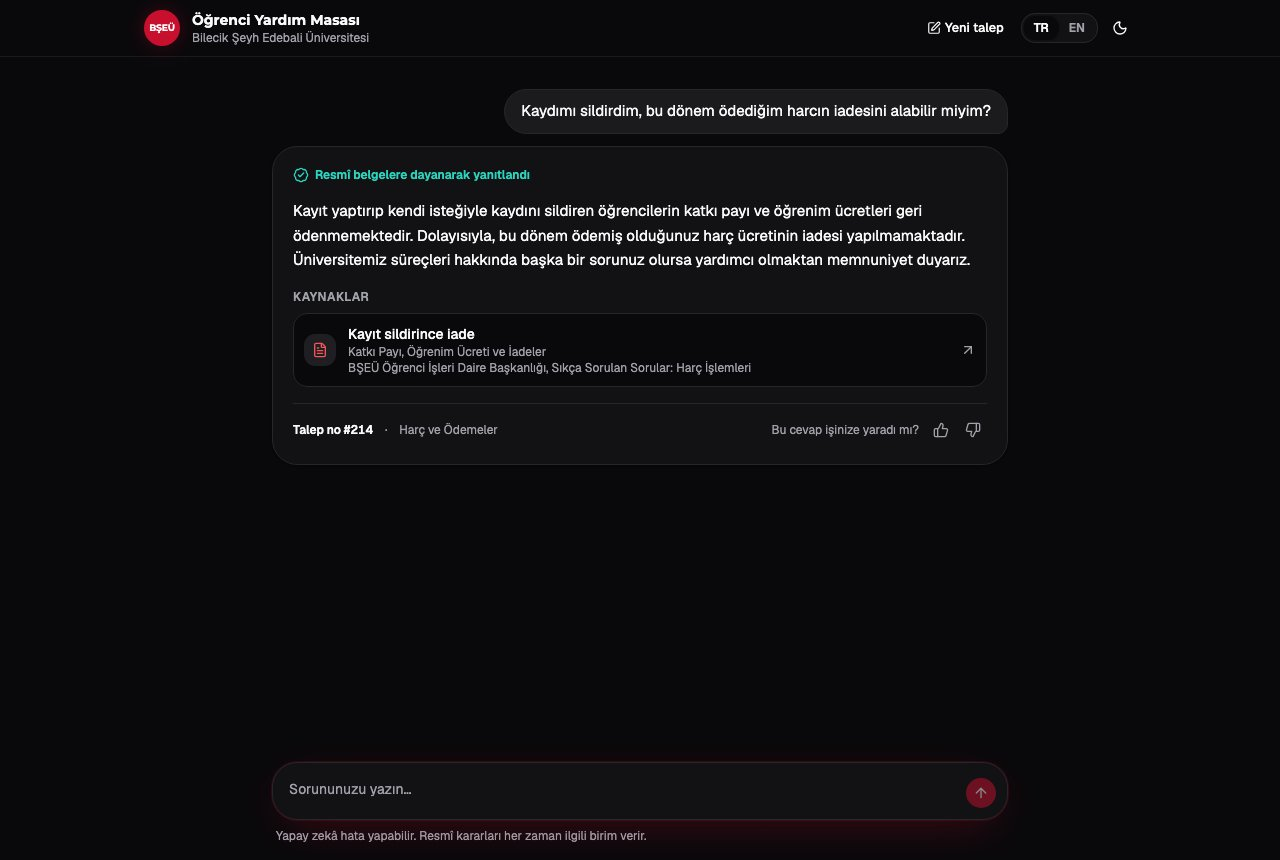
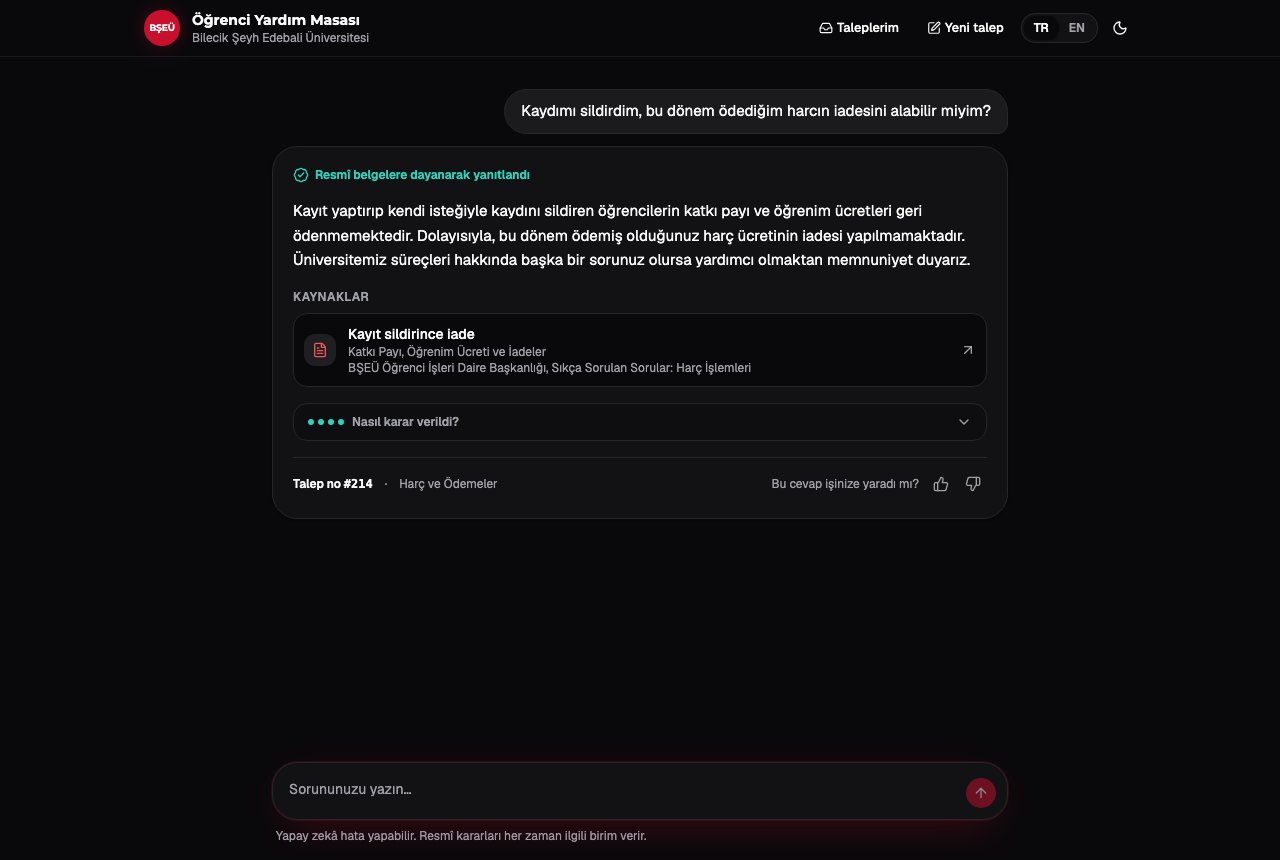
README and status: new features (Taleplerim, feedback, decision trace, Insights), new screenshots, roadmap 11/12/14, 145 tests, 9 decision records

diff --git a/README.md b/README.md
@@ -20,7 +20,7 @@
 | Kategoriler, birimler, escalation kuralları | [Kategoriler ve birimler](#kategoriler-ve-birimler-7-kategori) · tam kural kitabı: [`docs/labels.md`](docs/labels.md) |
 | Veri seti | [Veri seti](#veri-seti) · [`data/tickets/`](data/tickets/) |
 | Değerlendirme yöntemi ve sonuçlar | [Sonuçlar özeti](#sonuçlar-özeti) · ayrıntılar aşağıda · ham sonuçlar: [`eval/`](eval/) |
-| Yeni (23.10.2026): gerçekçi talepler ve "ön bilgi" | [Phase 8 sonuçları](#gerçekçi-talepler-phase-8) · [Ön bilgi](#ön-bilgi-yönlendirilen-taleplerde-yardım) |
+| Yeni (23.10.2026): gerçekçi talepler, "ön bilgi", Taleplerim, karar izi, istatistikler | [Phase 8 sonuçları](#gerçekçi-talepler-phase-8) · [Ön bilgi](#ön-bilgi-yönlendirilen-taleplerde-yardım) · [Yeni özellikler](#öğrenci-ve-personel-için-yeni-özellikler-23102026) |
 | Kapsam ve sınırlar | [Kapsam ve sınırlar](#kapsam-ve-sınırlar-v1) |
 | Önemli kararlar ve nedenleri | [`docs/decisions/`](docs/decisions/) (model seçimi, karar kuralları, veritabanı, barındırma, güvenlik) |
 | Her değişiklik ve nedeni | [Sürümler (Releases)](https://github.com/AhmedElghazzawy/ai-ticket-assistant/releases) · ayrıntılı çalışma notları: [`docs/changelog.md`](docs/changelog.md) (İngilizce) |
@@ -32,6 +32,10 @@ Görüntülerdeki cevaplar modelin gerçek çıktılarıdır (dev çalıştırma
 | Öğrenci: kaynaklı otomatik cevap | Öğrenci: yönlendirilen talepte "ön bilgi" |
 |---|---|
 | ![Öğrenci sayfası](docs/images/student_answer.jpg) | ![Ön bilgi](docs/images/student_first_help.jpg) |
+
+| Öğrenci: "Nasıl karar verildi?" | Personel: istatistikler (demo verisi) |
+|---|---|
+| ![Karar izi](docs/images/student_trace.jpg) | ![İstatistikler](docs/images/staff_insights.jpg) |
 
 | Personel: inceleme kuyruğu | Personel: yönlendirilen talep, kaynaklı taslak |
 |---|---|
@@ -95,6 +99,14 @@ Phase 8, öğrencilerin çoğunun hiç yardım almadan beklediğini gösterdi: b
 - Kural sade koddur ve testlidir ([`src/decision.py`](src/decision.py), `show_first_help`).
 - Dev setinde (80 talep): hemen yardım alan öğrenci **15/79'dan 27/80'e** çıktı (%34; aralık %24–45), escalation gerektiren hiçbir talepte ön bilgi gösterilmedi, hatalı otomatik gönderim 0. 11 ön bilginin hepsi okundu; biri prompt injection içeren bir talepti ve model saldırıyı yok sayıp yalnızca gerçek soruyu (eduroam) cevapladı. Dev seti prompt'ların geliştirildiği settir; adil sayı yeni taleplerle ölçülecek.
 - Kaynak adlarını artık model yazmaz: öğrencinin gördüğü kaynak kartları, doğrulanmış parça kimliklerinden kodla oluşturulur ve kaynak satırını gösterir (ör. KYK bölümü için "Resmî olmayan kaynak: kariyer.net ..."). Phase 8'de modelin bir kaynak adını karıştırdığı görülmüştü.
+
+## Öğrenci ve personel için yeni özellikler (23.10.2026)
+
+- **Taleplerim:** her talebe rastgele bir gizli kod verilir (veritabanında yalnızca özeti saklanır). Tarayıcı öğrencinin taleplerini hatırlar; öğrenci "Taleplerim" sayfasında durumu ve personelin cevabını görür. Yanlış kod ile var olmayan numara aynı cevabı alır ([karar kaydı 0009](docs/decisions/0009-student-ticket-access-code.md)).
+- **Geri bildirim:** "Bu cevap işinize yaradı mı?" düğmeleri artık gerçekten kaydediliyor (önceden görünüyor ama hiçbir şey kaydetmiyordu).
+- **"Nasıl karar verildi?":** her cevabın altında açılabilen bir iz: sınıflandırma, belge eşleşmesi ve eşik, belgelerin soruyu karşılayıp karşılamadığı, kaynağın doğrulanması ve karar. Öğrenciye yalnızca kontrol sonuçları gösterilir; taslak ve modelin kendi metni personelde kalır.
+- **İstatistikler (personel):** toplam talep, otomatik cevap, hemen yardım alan, bekleyen, medyan cevap süresi ve faydalı bulunma oranı; her sayının yanında örnek sayısı (n). Talep sonuçları, kategori ve son 14 gün grafikleri; her grafik tablo olarak da görülebilir. Grafik renkleri renk körlüğüne karşı bir doğrulama betiğiyle kontrol edildi.
+- **Dürüst bekleme göstergesi:** eski gösterge, adımlar bitmeden zamanlayıcıyla "✓" koyuyordu. Yeni gösterge yalnızca talebin izlediği yolu ve gerçek geçen süreyi gösterir.
 
 ## Kategoriler ve birimler (7 kategori)
 
@@ -206,7 +218,7 @@ Dev skoru yaklaşık 10 puan iyimserdi. Kaçırılan escalation testte de 0: kur
 
 ## Kapsam ve sınırlar (v1)
 
-- Personelin cevabı kaydedilir ama öğrenciye otomatik ulaştırılmaz (bu prototipte e-posta sistemi yok).
+- Personelin cevabı öğrenciye "Taleplerim" sayfasında ulaşır, ama yalnızca talebin gönderildiği tarayıcıda (gizli kod orada saklanır). E-posta bildirimi ve öğrenci girişi (SSO) yoktur.
 - Her ticket **tek bir kategori** alır; iki farklı birimi ilgilendiren bir ticket'ın bir kısmı yanlış birime gidebilir.
 - Bilgi tabanı 11 konuyla sınırlı; tarihler ve ücret tutarları belgelerde yok, bu yüzden bu sorular insana yönlendirilir.
 - Staj kuralları yalnızca Mühendislik Fakültesi içindir; KYK bölümü resmî olmayan bir kaynağa dayanır.
@@ -258,7 +270,7 @@ docker compose exec app python tools/add_staff.py ...                           
 
 ```sh
 uv run python src/tickets.py            # veri setini kontrol et ve özetini göster
-uv run streamlit run src/app.py         # eski panel: genel bakış, veri seti, değerlendirme (Insights sayfası gelince kaldırılacak)
+uv run streamlit run src/app.py         # eski panel: veri seti ve değerlendirme sonuçları (talep istatistikleri artık personel panelinde: /staff/insights)
 uv run python src/evaluate.py high      # sınıflandırma değerlendirmesi (yaklaşık 20 dakika)
 uv run python src/evaluate_retrieval.py # belge arama değerlendirmesi
 uv run python src/evaluate_pipeline.py  # tüm sistem: hatalı otomatik gönderim, ön bilgi
@@ -310,7 +322,7 @@ tools/export_openapi.py API şemasını frontend/openapi.json dosyasına yazar
 tools/add_staff.py      Personel hesabı oluşturur (gizli şifre girişi)
 tools/make_demo_tickets.py  Demo modunun örnek taleplerini veri setinden üretir
 render.yaml             Render dağıtımı (ücretsiz plan, Frankfurt)
-tests/                  121 pytest testi (karar kuralları, ön bilgi, ayarlar, veritabanı, arama, belge bölme, API, giriş, demo, değerlendirme)
+tests/                  145 pytest testi (karar kuralları, ön bilgi, ayarlar, veritabanı, arama, belge bölme, API, stres testleri, giriş, öğrencinin talebi, istatistikler, demo, değerlendirme)
 frontend/e2e/           Tarayıcı testleri (Playwright): öğrencinin her cevap türünde gördüğü sayfa
 data/knowledge_base/    22 resmî kaynaklı belge (TR + EN)
 src/try_one_ticket.py   İlk API çağrısı testi (Step 1)
@@ -347,7 +359,7 @@ Son güncelleme: 23.10.2026. ✅ tamamlandı · 🟡 kısmen · 🔄 devam ediyo
 | 8. Veri | 🟡 | Veri seti analizi (`tools/audit_data.py`); gerçek öğrenci sorunları araştırması; 40 gerçekçi talepten oluşan ikinci kilitli set ve ilk ölçüm | Etiket tutarlılığı ölçümü (birkaç gün sonra kendi etiketlerimi yeniden vermem) |
 | 9. Değerlendirme | 🟡 | Sınıflandırma skorlarında %95 güven aralığı (Wilson) kodda (`src/stats.py`); akış değerlendirmesinde "ön bilgi" ve escalation gerektiren taleplerde ön bilgi kontrolü | Retrieval ve pipeline değerlendirmesinde güven aralıkları, cevap kalitesi için LLM-as-judge, tek komutla sürümlü rapor, 3-4 modelin karşılaştırılması |
 | 10. Belge arama | 🟡 | Postgres + pgvector (sonuçlar aynı kaldı) | Hibrit arama ve reranking (önce daha zor talepler gerekli: hit@3 zaten %100) |
-| 11. Güvenlik ve stres testleri | 🟡 | Rate limit, günlük sınır, giriş sınırı, CSRF, sahte IP koruması (canlıda doğrulandı), loglarda öğrenci metni yok | Prompt injection ve stres testi paketi, kişisel veri işleme, kilitli testte son çalıştırma |
-| 12. Personel ürünü | 🟡 | Giriş, birime göre kuyruk, düzenleyip gönderme, birim değiştirme, demo modu; yönlendirilen taleplerde öğrenciye güvenli "ön bilgi" | Cevabın öğrenciye e-postayla ulaşması, öğrencinin talep durumunu görmesi, istatistik sayfası |
+| 11. Güvenlik ve stres testleri | 🟡 | Rate limit, günlük sınır, giriş sınırı, CSRF, sahte IP koruması (canlıda doğrulandı), loglarda öğrenci metni yok; stres testleri (boş metin ve NUL karakteri artık modele hiç ulaşmıyor, uzunluk sınırı, HTML düz metin kalıyor) | Prompt injection test paketi, kişisel veri işleme, kilitli testte son çalıştırma |
+| 12. Personel ürünü | 🟡 | Giriş, birime göre kuyruk, düzenleyip gönderme, birim değiştirme, demo modu; güvenli "ön bilgi"; öğrencinin talep durumunu ve personel cevabını görmesi (gizli kod, karar kaydı 0009); çalışan geri bildirim düğmeleri; "Nasıl karar verildi?" izi; istatistik sayfası | E-posta bildirimi, öğrenci girişi (SSO) |
 | 13. Canlıya alma | 🟡 | Canlı demo (Render + Neon, Frankfurt), canlıda test edildi | Maliyet ve hata izleme (monitoring); yalnızca CI geçince deploy |
-| 14. Sunum | 🟡 | Bu README, karar kayıtları ([`docs/decisions/`](docs/decisions/), 8 kayıt), sürüm v0.9, BŞEÜ renkleriyle yeni arayüz (resmî olmadığı uyarısıyla), CI'da çalışan tarayıcı testleri (Playwright, masaüstü + telefon) | Türkçe rapor, 5 dakikalık demo, resmî logo (izin gelirse), v1.0 |
+| 14. Sunum | 🟡 | Bu README, karar kayıtları ([`docs/decisions/`](docs/decisions/), 9 kayıt), sürüm v0.9, BŞEÜ renkleriyle yeni arayüz (resmî olmadığı uyarısıyla), CI'da çalışan tarayıcı testleri (Playwright, masaüstü + telefon) | Türkçe rapor, 5 dakikalık demo, resmî logo (izin gelirse), v1.0 |

diff --git a/AGENTS.md b/AGENTS.md
@@ -110,10 +110,10 @@ Status key: [DONE], [PARTIAL] (what is done / what is left), [IN PROGRESS], [TOD
 8.  [PARTIAL] Data: richer and more realistic tickets (multi-issue, typos, mixed TR/EN), a second person labels a sample (agreement score, Cohen's kappa), real tickets from classmates as a new unseen test set. Done: tools/audit_data.py and its findings (changelog, "Phase 8"); research on real student problems; 40 realistic tickets as a second locked set (data/tickets/phase8_tickets.jsonl, Claude drafted, I labeled every one) and its first run (2026-10-23). No second labeler or classmates' tickets are available: plan is realistic synthetic tickets, my own re-labeling a few days later (intra-rater agreement) and Claude-vs-me agreement, reported as exactly that. Left: re-label a sample a few days later, agreement scores; a small set of NEW tickets to measure first help fairly.
 9.  [PARTIAL] Evaluation: confidence intervals, LLM-as-judge for reply quality checked against my own ratings, one command that runs every eval and saves a versioned report; model comparison: the same locked evaluation on 3-4 LLMs (bigger Gemini, Claude, GPT, an open-weight model for KVKK / on-premise), choosing by accuracy, missed escalations, cost per 1,000 tickets and latency. Done: Wilson 95% intervals in the classifier eval (src/stats.py, src/evaluate.py, 2026-10-23). Left: intervals in the retrieval and pipeline evals, LLM-as-judge, one-command versioned report, model comparison.
 10. [PARTIAL] Retrieval: Postgres + pgvector, hybrid search (keyword + embedding), reranking; measure each against the current hit@3. Done: Postgres + pgvector for tickets and knowledge-base search (same hit@3). Left: hybrid search, reranking (hit@3 is already 100%, so harder tickets from Phase 8 are needed first to see any gain).
-11. [PARTIAL] Security and stress tests: prompt injection, empty or huge input, two problems in one ticket, PII handling, rate limiting; ONE final run on the locked test set. Done: rate limits (per visitor + daily cap), login limit, CSRF, fake-IP protection verified live, no student text in logs, input length limits. Left: a prompt-injection and stress test suite, PII handling, the one final locked-test run.
-12. [PARTIAL] Staff product: a real staff dashboard (login, queue, edit and send), the reply actually reaches the student, ticket status the student can see. Done: login, per-office queue, edit and send, reassign, demo mode, safe first help for students on forwarded tickets (ADR 0008). Left: the reply reaching the student (e-mail), student-visible ticket status, Insights page (replaces Streamlit).
+11. [PARTIAL] Security and stress tests: prompt injection, empty or huge input, two problems in one ticket, PII handling, rate limiting; ONE final run on the locked test set. Done: rate limits (per visitor + daily cap; lookup/feedback limit), login limit, CSRF, fake-IP protection verified live, no student text in logs, input length limits, stress tests (blank text and NUL no longer reach the paid model; exact length limit; HTML stays plain text). Left: a prompt-injection and stress test suite, PII handling, the one final locked-test run.
+12. [PARTIAL] Staff product: a real staff dashboard (login, queue, edit and send), the reply actually reaches the student, ticket status the student can see. Done: login, per-office queue, edit and send, reassign, demo mode, safe first help (ADR 0008), the student sees status and the staff reply on "Taleplerim" via a secret code (ADR 0009), working feedback buttons, the "Nasıl karar verildi?" decision trace, Insights page with charts (dataviz-validated colors). Left: e-mail notification, student login (SSO), retire the old Streamlit panel (it still shows dataset and eval results).
 13. [PARTIAL] Deployment: live demo URL, monitoring of cost and errors. Done: live at https://bseu-helpdesk.onrender.com (Render free, Frankfurt + Neon Postgres, Frankfurt), verified live. Left: monitoring of cost and errors; Render setting "deploy only after CI checks pass" (dashboard); the free plan sleeps after 15 min.
-14. [PARTIAL] Showcase: README with diagram and metrics, decision records, Turkish report for my professor, 5-minute demo, v1.0 tag. Done: Turkish README (demo link, screenshots, diagram, metrics with sample sizes and intervals), docs/decisions/ (8 records), release v0.9, BŞEÜ-red UI from the official site's colors with a not-official notice, Playwright browser tests in CI (desktop + phone). Left: Turkish report, 5-minute demo, official logo (only with the university's OK), v1.0 tag.
+14. [PARTIAL] Showcase: README with diagram and metrics, decision records, Turkish report for my professor, 5-minute demo, v1.0 tag. Done: Turkish README (demo link, screenshots, diagram, metrics with sample sizes and intervals), docs/decisions/ (9 records), release v0.9, BŞEÜ-red UI from the official site's colors with a not-official notice, Playwright browser tests in CI (desktop + phone), dark and premium redesign (my choice). Left: Turkish report, 5-minute demo, official logo (only with the university's OK), v1.0 tag.
 
 ## Lessons from my first attempt
 - The coding assistant ran in auto mode and wrote more than I understood. That is why we restarted.
@@ -121,4 +121,4 @@ Status key: [DONE], [PARTIAL] (what is done / what is left), [IN PROGRESS], [TOD
 - The secrets file was once named key.env by mistake, so git did not ignore it. The name must be exactly .env.
 
 ## Current status
-(2026-10-23) Phases 1-7 done (Phase 6 without the LangGraph rebuild); Phases 8-14 partly done (see the roadmap above). Live demo: https://bseu-helpdesk.onrender.com (new BŞEÜ-red UI, not-official notice; staff console via "Demo olarak dene"). First professor email sent; the next update email I write myself with Claude chat. Scores: old locked test 73.8% all three (mean of 2 runs: 72.5% and 75.0%, per-run 95% CI about 57-86%, n=40), 0 missed escalations of 14. Phase 8 locked realistic set (40): all three 72.5% (57-84%), 0/11 missed escalations, pipeline 0 unsafe auto-sends, 15/40 auto-resolved. First help on forwarded tickets (ADR 0008): dev students helped right away 15/79 -> 27/80, 0 on escalated tickets; checked live (ticket #23). Citations built by code (per-section sources; KYK marked non-official). 121 pytest tests + 8 Playwright runs, CI green. Open items, in order: (1) I ask my professor about the official BŞEÜ logo; (2) Render dashboard: bseu-helpdesk -> Settings -> Build & Deploy -> Auto-Deploy -> "After CI Checks Pass" (my click; on 2026-10-23 a push went live while CI was red); (3) new tickets to measure first help fairly, Phase 8 re-label for agreement, the Turkish report. Deploy note: Claude Code's permission check blocks Claude from deploy commands (render/neonctl); the working way is one `!` command that I run (see changelog "Deployment, part 2"). Update this line at the end of each session, after asking me.
+(2026-10-23) Phases 1-7 done (Phase 6 without the LangGraph rebuild); Phases 8-14 partly done (see the roadmap above). Live demo: https://bseu-helpdesk.onrender.com (new BŞEÜ-red UI, not-official notice; staff console via "Demo olarak dene"). First professor email sent; the next update email I write myself with Claude chat. Scores: old locked test 73.8% all three (mean of 2 runs: 72.5% and 75.0%, per-run 95% CI about 57-86%, n=40), 0 missed escalations of 14. Phase 8 locked realistic set (40): all three 72.5% (57-84%), 0/11 missed escalations, pipeline 0 unsafe auto-sends, 15/40 auto-resolved. First help on forwarded tickets (ADR 0008): dev students helped right away 15/79 -> 27/80, 0 on escalated tickets; checked live (ticket #23). Citations built by code (per-section sources; KYK marked non-official). Dark and premium UI (my choice); student "Taleplerim" with the staff reply (secret code, ADR 0009), feedback, decision trace, staff Insights page. Phase 8 retrieval hit@3 100% (89-100%, n=30). 145 pytest tests + 16 Playwright runs, CI green. Open items, in order: (1) I ask my professor about the official BŞEÜ logo; (2) Render dashboard: bseu-helpdesk -> Settings -> Build & Deploy -> Auto-Deploy -> "After CI Checks Pass" (my click; on 2026-10-23 a push went live while CI was red); (3) new tickets to measure first help fairly, Phase 8 re-label for agreement, the Turkish report. Deploy note: Claude Code's permission check blocks Claude from deploy commands (render/neonctl); the working way is one `!` command that I run (see changelog "Deployment, part 2"). Update this line at the end of each session, after asking me.

diff --git a/CLAUDE.md b/CLAUDE.md
@@ -110,10 +110,10 @@ Status key: [DONE], [PARTIAL] (what is done / what is left), [IN PROGRESS], [TOD
 8.  [PARTIAL] Data: richer and more realistic tickets (multi-issue, typos, mixed TR/EN), a second person labels a sample (agreement score, Cohen's kappa), real tickets from classmates as a new unseen test set. Done: tools/audit_data.py and its findings (changelog, "Phase 8"); research on real student problems; 40 realistic tickets as a second locked set (data/tickets/phase8_tickets.jsonl, Claude drafted, I labeled every one) and its first run (2026-10-23). No second labeler or classmates' tickets are available: plan is realistic synthetic tickets, my own re-labeling a few days later (intra-rater agreement) and Claude-vs-me agreement, reported as exactly that. Left: re-label a sample a few days later, agreement scores; a small set of NEW tickets to measure first help fairly.
 9.  [PARTIAL] Evaluation: confidence intervals, LLM-as-judge for reply quality checked against my own ratings, one command that runs every eval and saves a versioned report; model comparison: the same locked evaluation on 3-4 LLMs (bigger Gemini, Claude, GPT, an open-weight model for KVKK / on-premise), choosing by accuracy, missed escalations, cost per 1,000 tickets and latency. Done: Wilson 95% intervals in the classifier eval (src/stats.py, src/evaluate.py, 2026-10-23). Left: intervals in the retrieval and pipeline evals, LLM-as-judge, one-command versioned report, model comparison.
 10. [PARTIAL] Retrieval: Postgres + pgvector, hybrid search (keyword + embedding), reranking; measure each against the current hit@3. Done: Postgres + pgvector for tickets and knowledge-base search (same hit@3). Left: hybrid search, reranking (hit@3 is already 100%, so harder tickets from Phase 8 are needed first to see any gain).
-11. [PARTIAL] Security and stress tests: prompt injection, empty or huge input, two problems in one ticket, PII handling, rate limiting; ONE final run on the locked test set. Done: rate limits (per visitor + daily cap), login limit, CSRF, fake-IP protection verified live, no student text in logs, input length limits. Left: a prompt-injection and stress test suite, PII handling, the one final locked-test run.
-12. [PARTIAL] Staff product: a real staff dashboard (login, queue, edit and send), the reply actually reaches the student, ticket status the student can see. Done: login, per-office queue, edit and send, reassign, demo mode, safe first help for students on forwarded tickets (ADR 0008). Left: the reply reaching the student (e-mail), student-visible ticket status, Insights page (replaces Streamlit).
+11. [PARTIAL] Security and stress tests: prompt injection, empty or huge input, two problems in one ticket, PII handling, rate limiting; ONE final run on the locked test set. Done: rate limits (per visitor + daily cap; lookup/feedback limit), login limit, CSRF, fake-IP protection verified live, no student text in logs, input length limits, stress tests (blank text and NUL no longer reach the paid model; exact length limit; HTML stays plain text). Left: a prompt-injection and stress test suite, PII handling, the one final locked-test run.
+12. [PARTIAL] Staff product: a real staff dashboard (login, queue, edit and send), the reply actually reaches the student, ticket status the student can see. Done: login, per-office queue, edit and send, reassign, demo mode, safe first help (ADR 0008), the student sees status and the staff reply on "Taleplerim" via a secret code (ADR 0009), working feedback buttons, the "Nasıl karar verildi?" decision trace, Insights page with charts (dataviz-validated colors). Left: e-mail notification, student login (SSO), retire the old Streamlit panel (it still shows dataset and eval results).
 13. [PARTIAL] Deployment: live demo URL, monitoring of cost and errors. Done: live at https://bseu-helpdesk.onrender.com (Render free, Frankfurt + Neon Postgres, Frankfurt), verified live. Left: monitoring of cost and errors; Render setting "deploy only after CI checks pass" (dashboard); the free plan sleeps after 15 min.
-14. [PARTIAL] Showcase: README with diagram and metrics, decision records, Turkish report for my professor, 5-minute demo, v1.0 tag. Done: Turkish README (demo link, screenshots, diagram, metrics with sample sizes and intervals), docs/decisions/ (8 records), release v0.9, BŞEÜ-red UI from the official site's colors with a not-official notice, Playwright browser tests in CI (desktop + phone). Left: Turkish report, 5-minute demo, official logo (only with the university's OK), v1.0 tag.
+14. [PARTIAL] Showcase: README with diagram and metrics, decision records, Turkish report for my professor, 5-minute demo, v1.0 tag. Done: Turkish README (demo link, screenshots, diagram, metrics with sample sizes and intervals), docs/decisions/ (9 records), release v0.9, BŞEÜ-red UI from the official site's colors with a not-official notice, Playwright browser tests in CI (desktop + phone), dark and premium redesign (my choice). Left: Turkish report, 5-minute demo, official logo (only with the university's OK), v1.0 tag.
 
 ## Lessons from my first attempt
 - Claude Code ran in auto mode and wrote more than I understood. That is why we restarted.
@@ -121,4 +121,4 @@ Status key: [DONE], [PARTIAL] (what is done / what is left), [IN PROGRESS], [TOD
 - The secrets file was once named key.env by mistake, so git did not ignore it. The name must be exactly .env.
 
 ## Current status
-(2026-10-23) Phases 1-7 done (Phase 6 without the LangGraph rebuild); Phases 8-14 partly done (see the roadmap above). Live demo: https://bseu-helpdesk.onrender.com (new BŞEÜ-red UI, not-official notice; staff console via "Demo olarak dene"). First professor email sent; the next update email I write myself with Claude chat. Scores: old locked test 73.8% all three (mean of 2 runs: 72.5% and 75.0%, per-run 95% CI about 57-86%, n=40), 0 missed escalations of 14. Phase 8 locked realistic set (40): all three 72.5% (57-84%), 0/11 missed escalations, pipeline 0 unsafe auto-sends, 15/40 auto-resolved. First help on forwarded tickets (ADR 0008): dev students helped right away 15/79 -> 27/80, 0 on escalated tickets; checked live (ticket #23). Citations built by code (per-section sources; KYK marked non-official). 121 pytest tests + 8 Playwright runs, CI green. Open items, in order: (1) I ask my professor about the official BŞEÜ logo; (2) Render dashboard: bseu-helpdesk -> Settings -> Build & Deploy -> Auto-Deploy -> "After CI Checks Pass" (my click; on 2026-10-23 a push went live while CI was red); (3) new tickets to measure first help fairly, Phase 8 re-label for agreement, the Turkish report. Deploy note: Claude Code's permission check blocks Claude from deploy commands (render/neonctl); the working way is one `!` command that I run (see changelog "Deployment, part 2"). Update this line at the end of each session, after asking me.
+(2026-10-23) Phases 1-7 done (Phase 6 without the LangGraph rebuild); Phases 8-14 partly done (see the roadmap above). Live demo: https://bseu-helpdesk.onrender.com (new BŞEÜ-red UI, not-official notice; staff console via "Demo olarak dene"). First professor email sent; the next update email I write myself with Claude chat. Scores: old locked test 73.8% all three (mean of 2 runs: 72.5% and 75.0%, per-run 95% CI about 57-86%, n=40), 0 missed escalations of 14. Phase 8 locked realistic set (40): all three 72.5% (57-84%), 0/11 missed escalations, pipeline 0 unsafe auto-sends, 15/40 auto-resolved. First help on forwarded tickets (ADR 0008): dev students helped right away 15/79 -> 27/80, 0 on escalated tickets; checked live (ticket #23). Citations built by code (per-section sources; KYK marked non-official). Dark and premium UI (my choice); student "Taleplerim" with the staff reply (secret code, ADR 0009), feedback, decision trace, staff Insights page. Phase 8 retrieval hit@3 100% (89-100%, n=30). 145 pytest tests + 16 Playwright runs, CI green. Open items, in order: (1) I ask my professor about the official BŞEÜ logo; (2) Render dashboard: bseu-helpdesk -> Settings -> Build & Deploy -> Auto-Deploy -> "After CI Checks Pass" (my click; on 2026-10-23 a push went live while CI was red); (3) new tickets to measure first help fairly, Phase 8 re-label for agreement, the Turkish report. Deploy note: Claude Code's permission check blocks Claude from deploy commands (render/neonctl); the working way is one `!` command that I run (see changelog "Deployment, part 2"). Update this line at the end of each session, after asking me.

diff --git a/docs/changelog.md b/docs/changelog.md
@@ -1576,3 +1576,5 @@ Staff pages show student messages. Until now they only answered requests from th
 - Honesty problem found in the EXISTING waiting indicator: every 800 ms it put a checkmark next to a step ("✓ Talebiniz okunuyor"), as if that step were finished, made up by a timer. New Thinking component: no checkmarks; the path (Okunuyor -> Resmî belgelerde aranıyor -> Cevap yazılıyor) with a highlight moving along it in a loop, a pulsing dot, and a REAL elapsed-time counter in monospace ("3 sn"). TR + EN texts.
 - Ticket numbers in monospace (an "evidence / record" feel, matching the trace's step numbers); a faint dot-grid texture behind the hero glow (.hero-dots, masked to fade out; decoration only).
 - Checks: Biome, TypeScript, build, 16 Playwright runs (the split "Talep no" + "#42" text still matches). Screenshots checked (hero, waiting state with a never-answering fake API).
+- Commit and push: `e1760c5` (signature details).
+- README (Turkish): new screenshots (decision trace with a real dev answer, all four steps; Insights with demo data; the other four retaken in the final design); new section "Öğrenci ve personel için yeni özellikler" (Taleplerim, feedback, decision trace, Insights, honest waiting indicator); the limits line no longer says the staff reply never reaches the student (it does, on "Taleplerim", in the browser that sent the ticket; no e-mail, no SSO); roadmap 11, 12, 14 updated; 145 tests; 9 decision records. The "Taleplerim" screenshot was NOT used: its staff reply was a fake text typed for a test. CLAUDE.md and AGENTS.md: roadmap 11, 12, 14 and the status line updated the same way.
